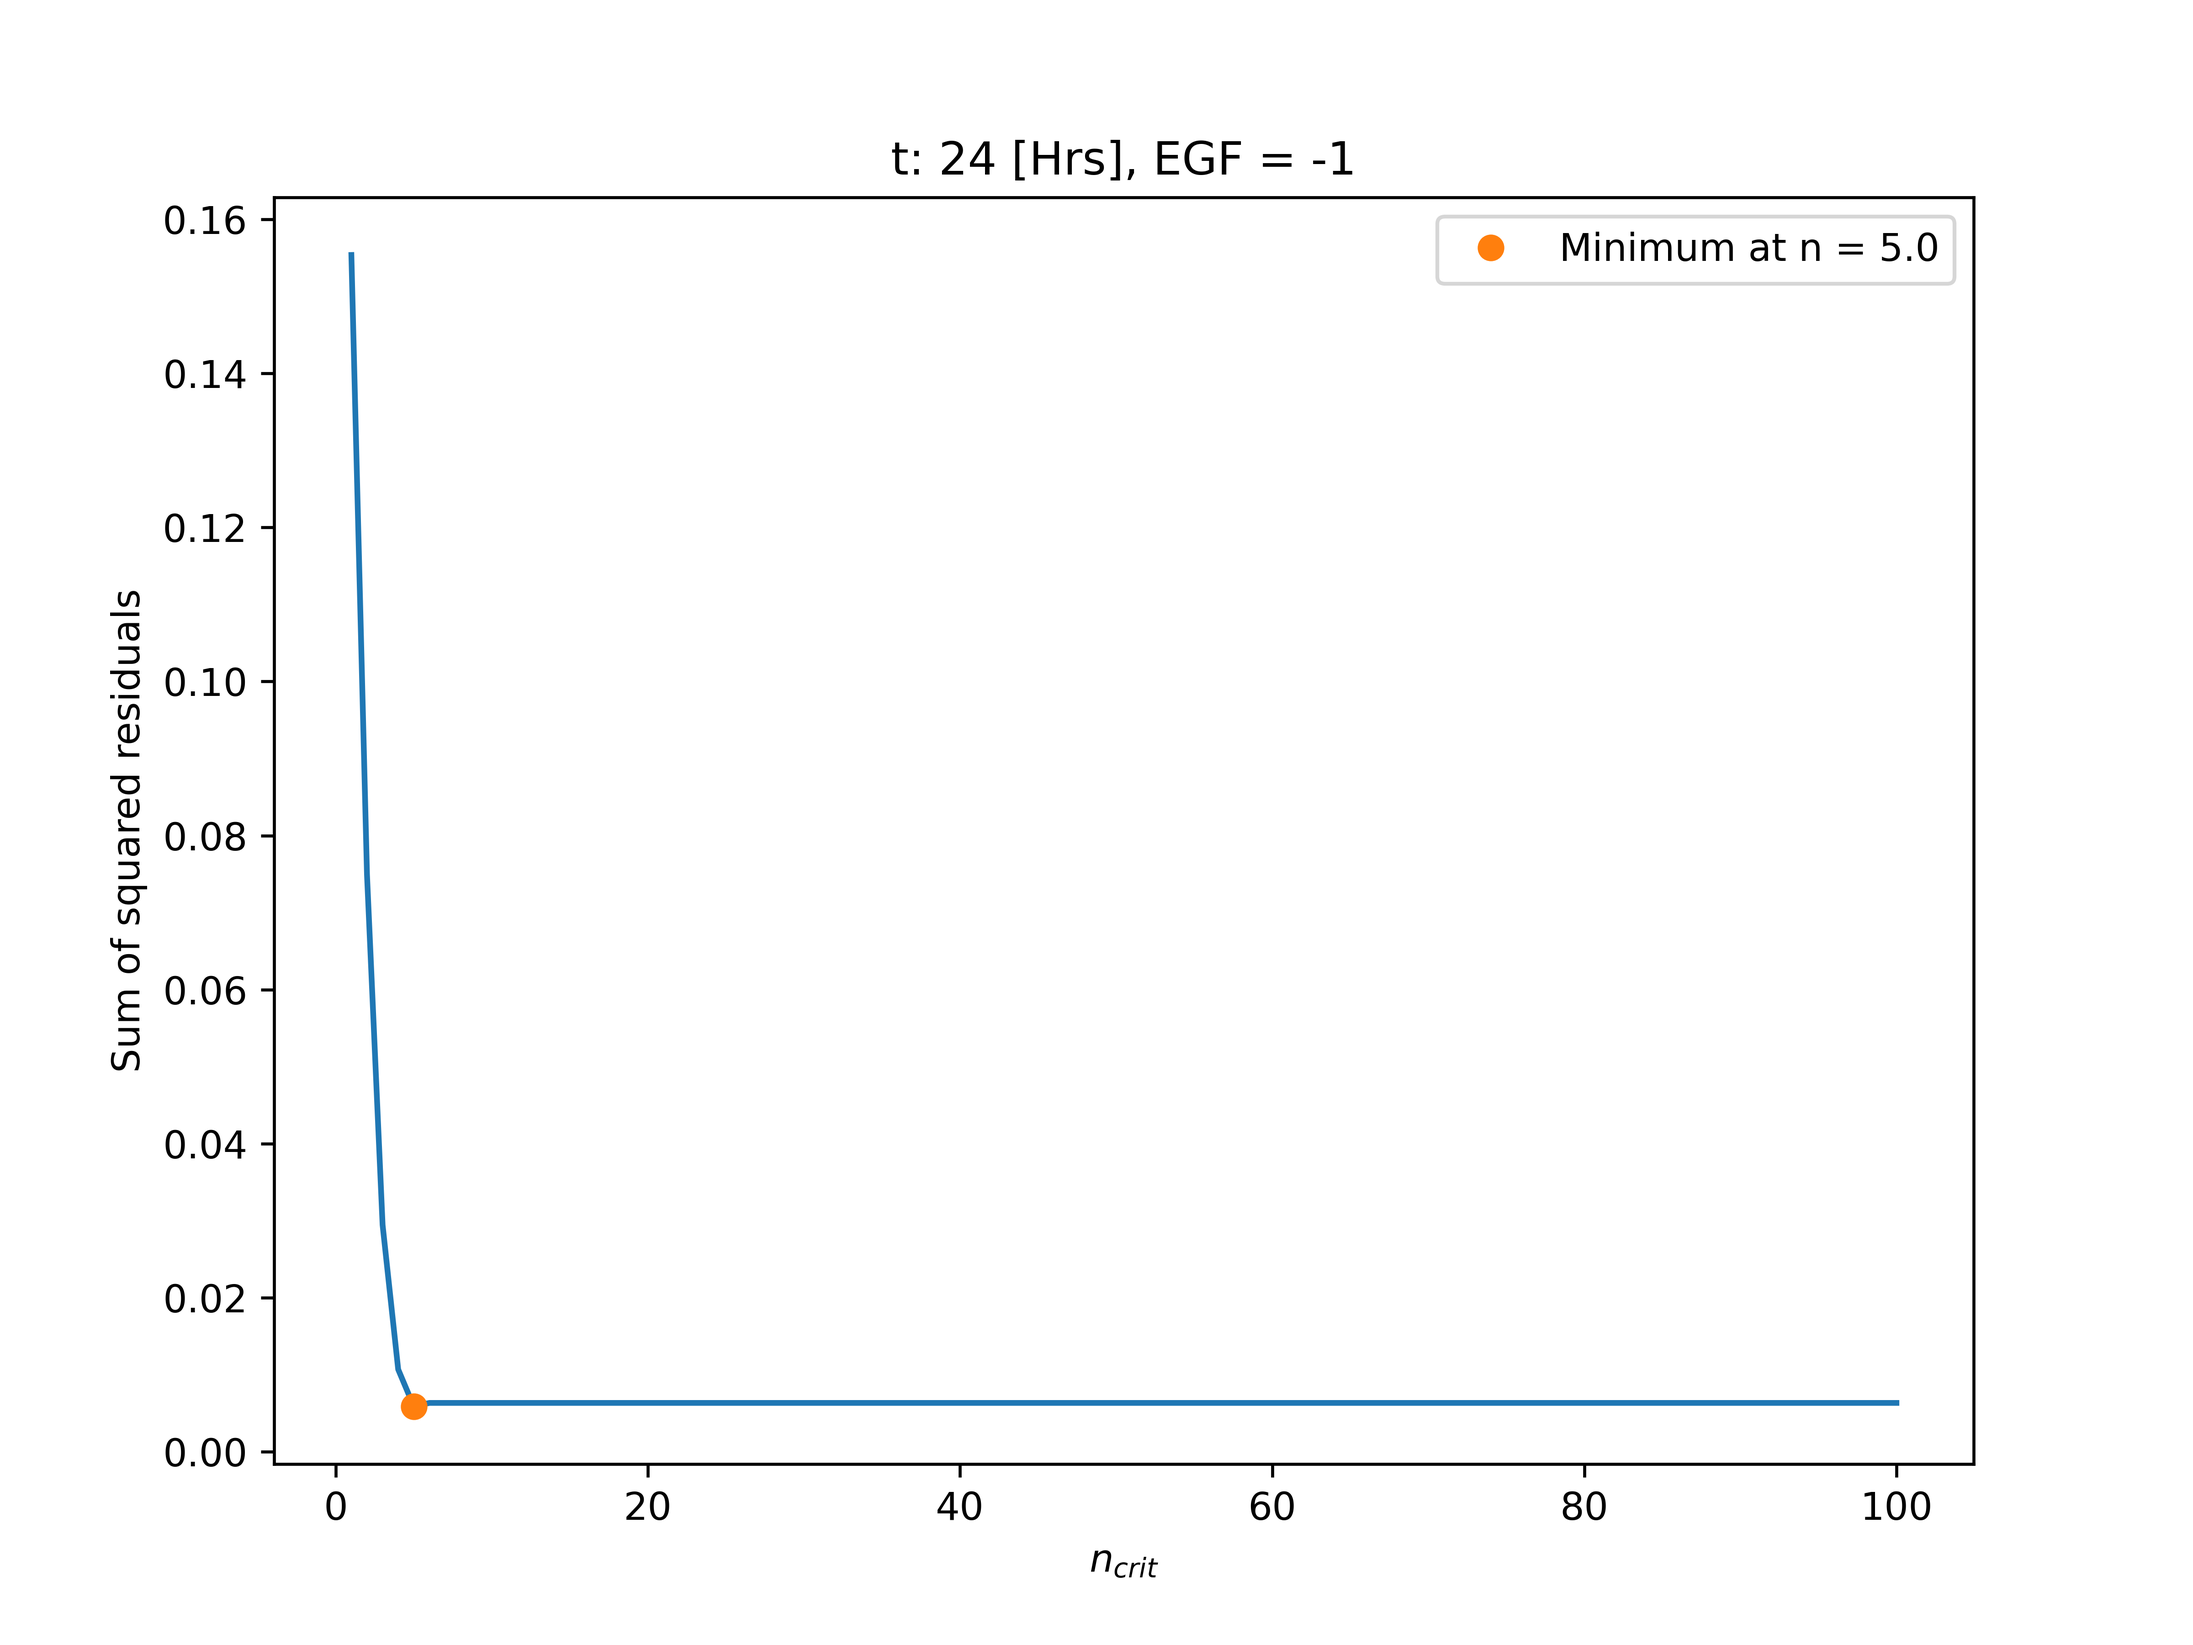
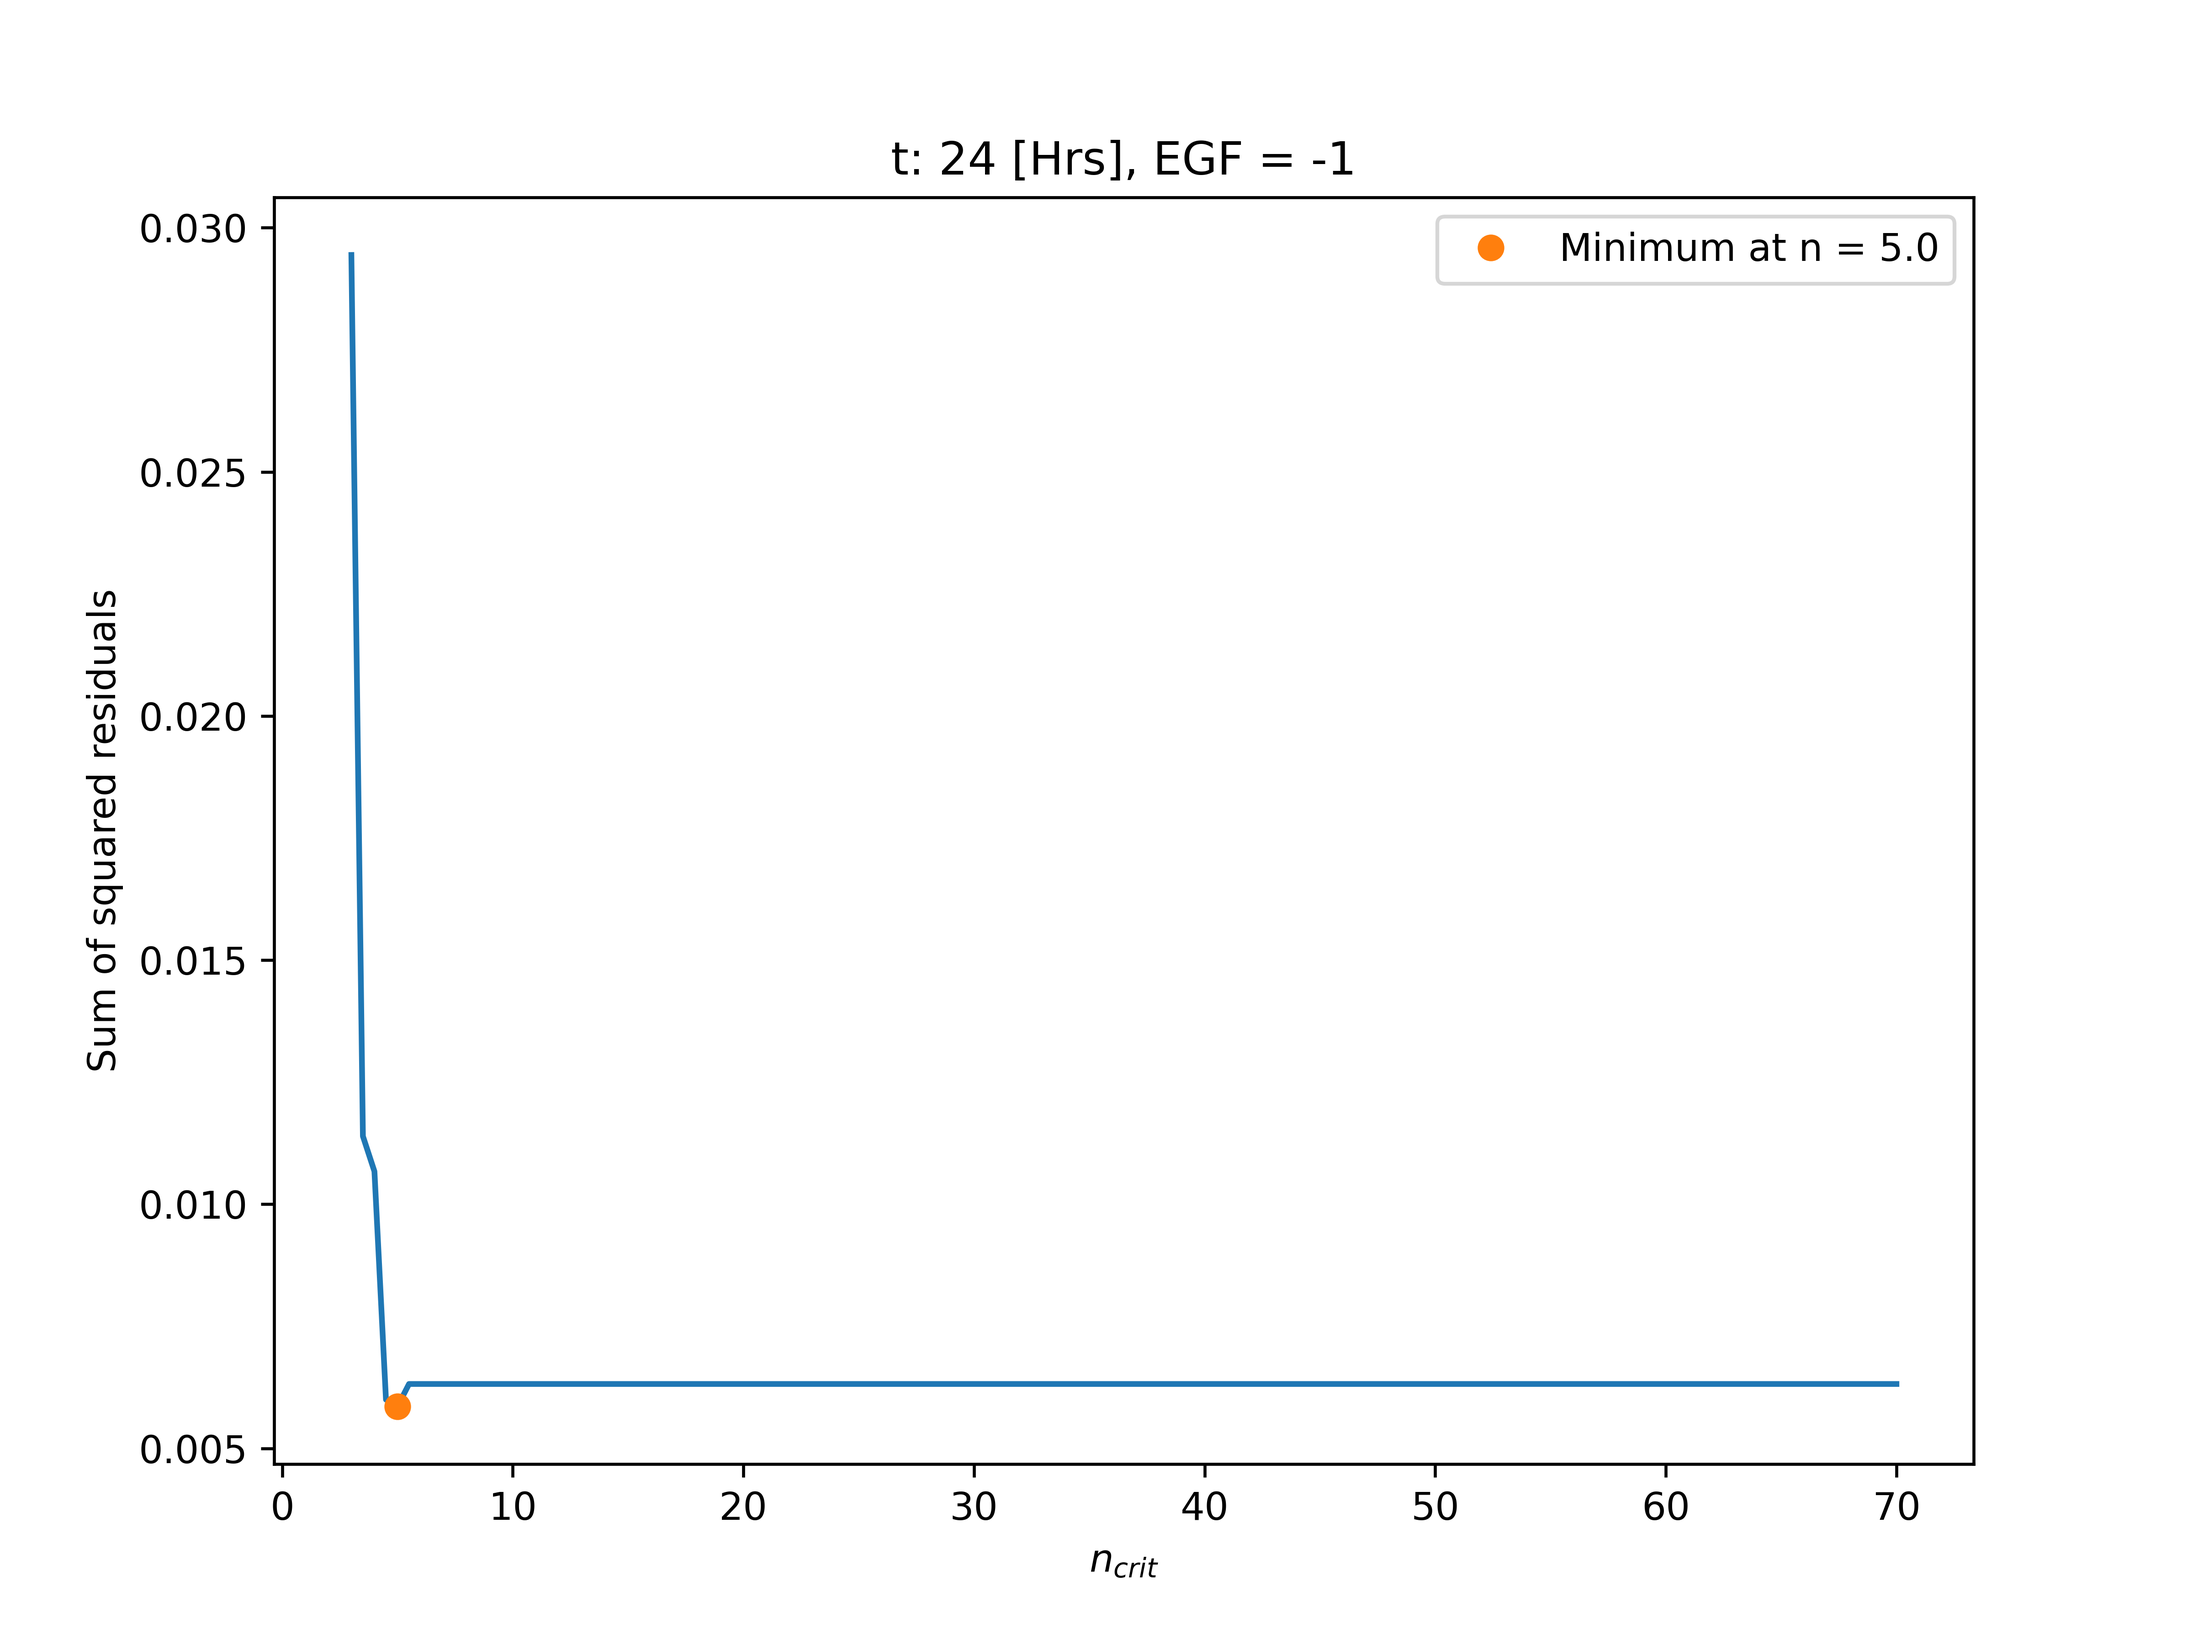
Commit pre-reunión

diff --git a/crit_size_model.py b/crit_size_model.py
@@ -29,13 +29,13 @@ def func_to_optimize(birth_rate, delta, n_crit, t, ndata, ccdfdata):
 
 if __name__ == '__main__':
 
-    # Profiling boilerplate:
+    # # Profiling boilerplate:
 
-    import cProfile
-    import pstats
-    import io
-    profiler = cProfile.Profile()
-    profiler.enable()
+    # import cProfile
+    # import pstats
+    # import io
+    # profiler = cProfile.Profile()
+    # profiler.enable()
 
     # Start code here
 
@@ -51,9 +51,9 @@ if __name__ == '__main__':
                [3/400., 9., 9.],
                [3/400., 9., 54.]]
 
-    tcodes = [8]#[1, 2, 3, 4, 5, 6, 7, 8]
+    tcodes = [1, 2, 3, 4, 5, 6, 7, 8]
 
-    with open('params.txt', 'w') as file:
+    with open('critsize_params.txt', 'w') as file:
 
         file.write(f"tcode, birth_rate, delta, n_crit\n")
 
@@ -74,7 +74,7 @@ if __name__ == '__main__':
 
             # TESTING
 
-            n_crit_sweep = np.arange(1, 101).astype(float)
+            n_crit_sweep = np.linspace(3, 70, 135)
 
             curve = [func_to_optimize(params[0], params[1], n_crit, t, ndata, ccdfdata) for n_crit in n_crit_sweep]
 
@@ -109,11 +109,11 @@ if __name__ == '__main__':
 
     # End code here
 
-    # Profiling boilerplate:
+    # # Profiling boilerplate:
 
-    profiler.disable()
-    s = io.StringIO()
-    stats = pstats.Stats(profiler, stream=s).sort_stats('tottime')
-    stats.print_stats()
-    with open('test.txt', 'w+') as f:
-        f.write(s.getvalue())
+    # profiler.disable()
+    # s = io.StringIO()
+    # stats = pstats.Stats(profiler, stream=s).sort_stats('tottime')
+    # stats.print_stats()
+    # with open('test.txt', 'w+') as f:
+    #     f.write(s.getvalue())

diff --git a/exp_sum_model.py b/exp_sum_model.py
@@ -3,4 +3,34 @@ import numpy as np
 import matplotlib.pyplot as plt
 from scipy.optimize import curve_fit
 
+def biexponential_ccdf(n, rate_1, rate_2):
+    ccdf = .5*(np.exp(-rate_1*n) + np.exp(-rate_2*n))
+    return ccdf
 
+def estimate_parameters(ndata, ccdfdata, initial_guess, bounds):
+
+    params, cov = curve_fit(biexponential_ccdf, ndata, ccdfdata,
+                                p0=initial_guess,
+                                bounds=bounds,
+                                max_nfev=10_000,
+                                xtol=1e-6,
+                                gtol=1e-6,
+                                method='dogbox',
+                                verbose=2)
+    
+    return params, cov
+
+if __name__ == '__main__':
+    datalocation = 'Data/20220222_idx.xlsm'
+
+    # Initial guess for parameters.
+    guesses = [[3/400., 9., 8.],
+               [3/400., 9., 5.],
+               [3/400., 9., 6.],
+               [3/400., 9., 5.],
+               [3/400., 9., 30.],
+               [3/400., 9., 17.],
+               [3/400., 9., 9.],
+               [3/400., 9., 54.]]
+
+    tcodes = [1, 2, 3, 4, 5, 6, 7, 8]
